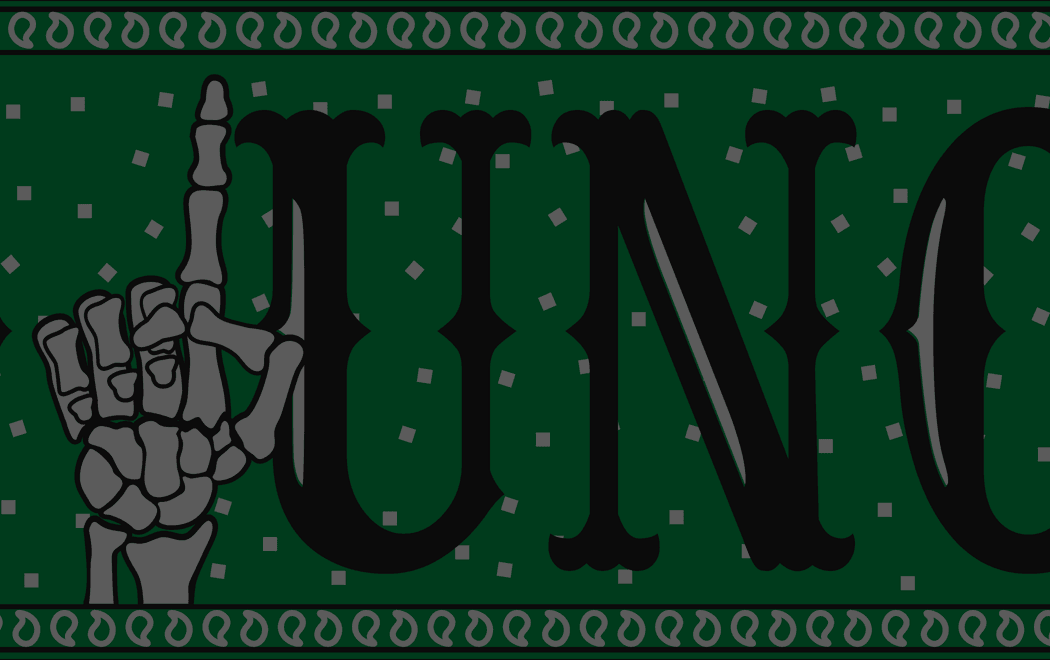
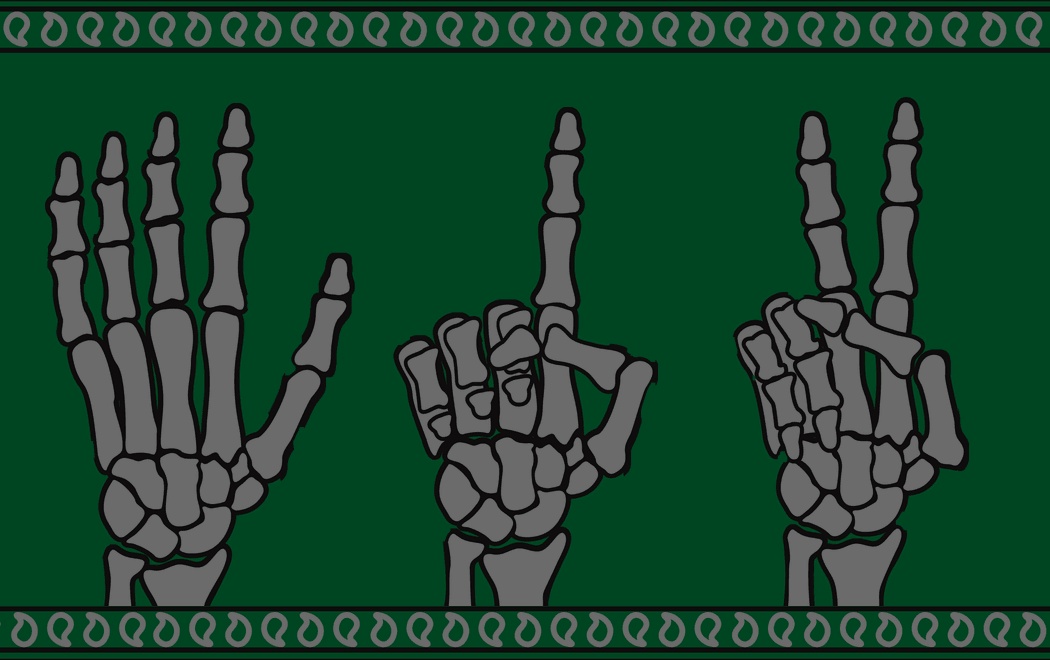
Show all three skeleton hands on the 2025 card
The 2025 card showed one hand and UNO, a single part of a scarf whose
point is the three gestures. It now shows all three, five, one and two,
each cut out from the letter behind it in the scarf's vector print file,
standing on the scarf's green between its paisley borders. The theme's
version goes to 3, so cached cards and passes are rebuilt; yearTheme()
takes a version for a year whose own art changes.

diff --git a/src/themes/cardTheme.ts b/src/themes/cardTheme.ts
@@ -144,14 +144,15 @@ export const CLASSIC_THEME: CardTheme = {
  * and pass images, and has artwork on every surface under
  * `templates/themes/<year>/` (how each was made: assets/templates/themes/README.md).
  */
-function yearTheme(year: number, label: string, colors: CardThemeColors): CardTheme {
+function yearTheme(year: number, label: string, colors: CardThemeColors, version = 2): CardTheme {
   const prefix = `templates/themes/${year}/`;
   return {
     id: String(year),
     label,
     year,
     // 2: poster art for Apple, and Google's hero at its 2026 size (#384).
-    version: 2,
+    // A year whose own art changes since passes its own.
+    version,
     colors,
     assets: CLASSIC_THEME.assets,
     artwork: {
@@ -211,7 +212,8 @@ export const YEAR_THEMES: readonly CardTheme[] = [
     qrLabel: "#046a29",
     passText: "#ffffff",
   }),
-  // "Cinco Uno Dos": the skeleton hand and UNO, and the LOS VERDES roundel.
+  // "Cinco Uno Dos": the three skeleton hands, and the LOS VERDES roundel.
+  // 3: the card's art, from UNO alone to all three hands.
   yearTheme(2025, "2025: Cinco Uno Dos", {
     background: "#221e1f",
     border: "#00a550",
@@ -219,7 +221,7 @@ export const YEAR_THEMES: readonly CardTheme[] = [
     secondaryText: "#d8f5e4",
     qrLabel: "#046a29",
     passText: "#ffffff",
-  }),
+  }, 3),
   // The skull gaiter: the 2026 kit's skull and lettering.
   yearTheme(2026, "2026: Skull Gaiter", {
     background: "#1d2429",

diff --git a/assets/templates/themes/README.md b/assets/templates/themes/README.md
@@ -63,8 +63,9 @@ side. So the art's subject belongs in the top half, clear of the sides.
   skull in its sunburst from the LOS VERDES side. Worth replacing from the
   print file if one turns up.
 - **2025 ("Cinco Uno Dos").** From the scarf's vector print file, rendered at
-  200 dpi. The card is the skeleton hand and UNO from the green side,
-  darkened 64%. The poster, hero and thumbnail are the LOS VERDES roundel
+  200 dpi. The card is the green side's three skeleton hands, five, one and
+  two, each cut out from the letter behind it, standing on the scarf's green
+  between its paisley borders, darkened 58%. The poster, hero and thumbnail are the LOS VERDES roundel
   from the black side: on the poster with the confetti around it, faded into
   the scarf's black.
 - **2026 ("Skull Gaiter").** No scarf print file was to hand, so this year
